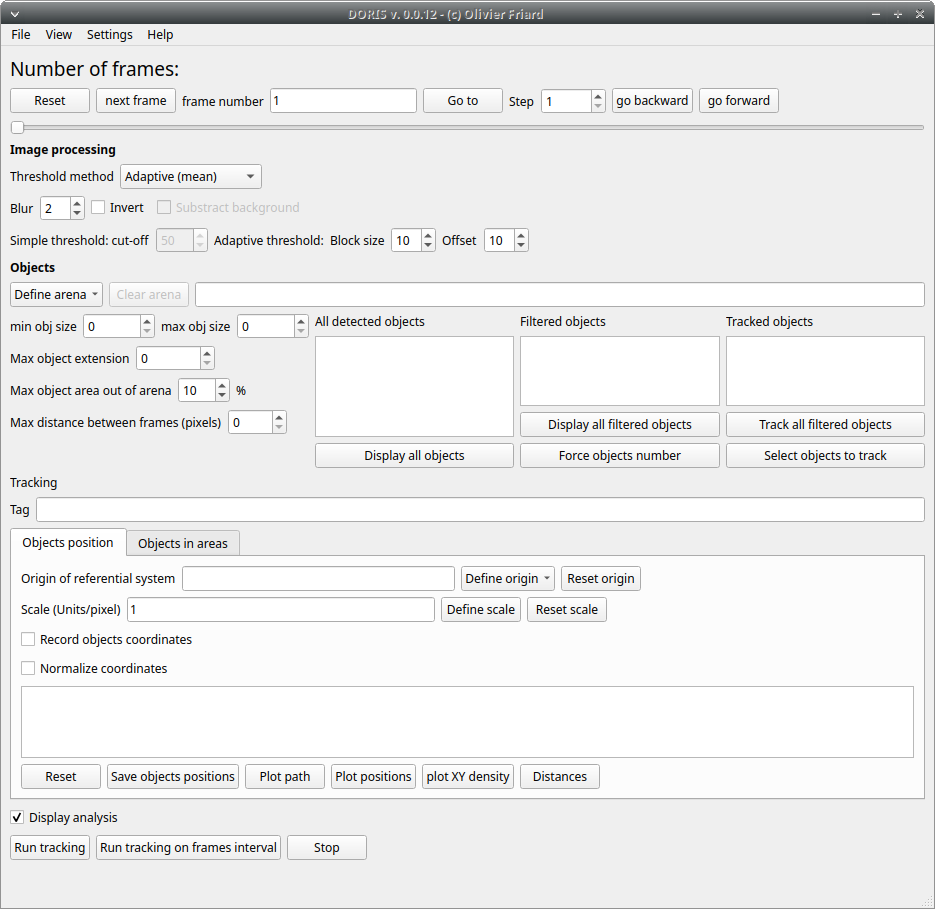
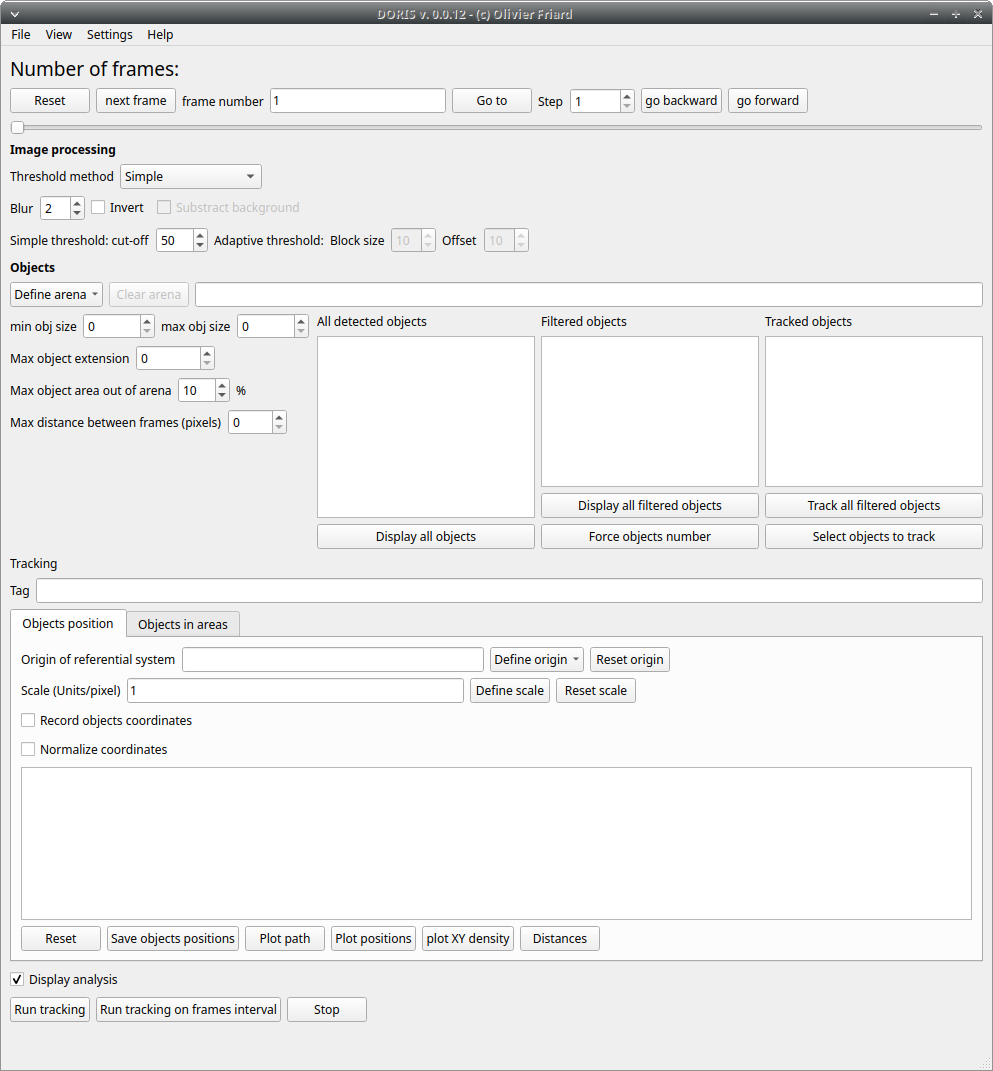
some work

diff --git a/index.rst b/index.rst
@@ -87,10 +87,9 @@ Frame processing
 The **Processed frame** window displays the frame after conversion to binary image (b/w), application of a blur filter
 and eventually conversion to negative.
 
-In this example we apply a simple threshold method to convert the grayscale image (value from 1 to 255) to binary (0 or 1).
+In this example we apply a **simple threshold method** to convert the grayscale image (values from 1 to 255) to binary (0 or 1).
 Another threshold methods are available:
-**Adaptive thresholding (mean)** and **Adaptive thresholding (Gaussian)**
-
+**Adaptive thresholding (mean)** and **Adaptive thresholding (Gaussian)**.
 See the `OpenCV documentation <https://docs.opencv.org/3.4.0/d7/d4d/tutorial_py_thresholding.html>`_ for details.
 
 
